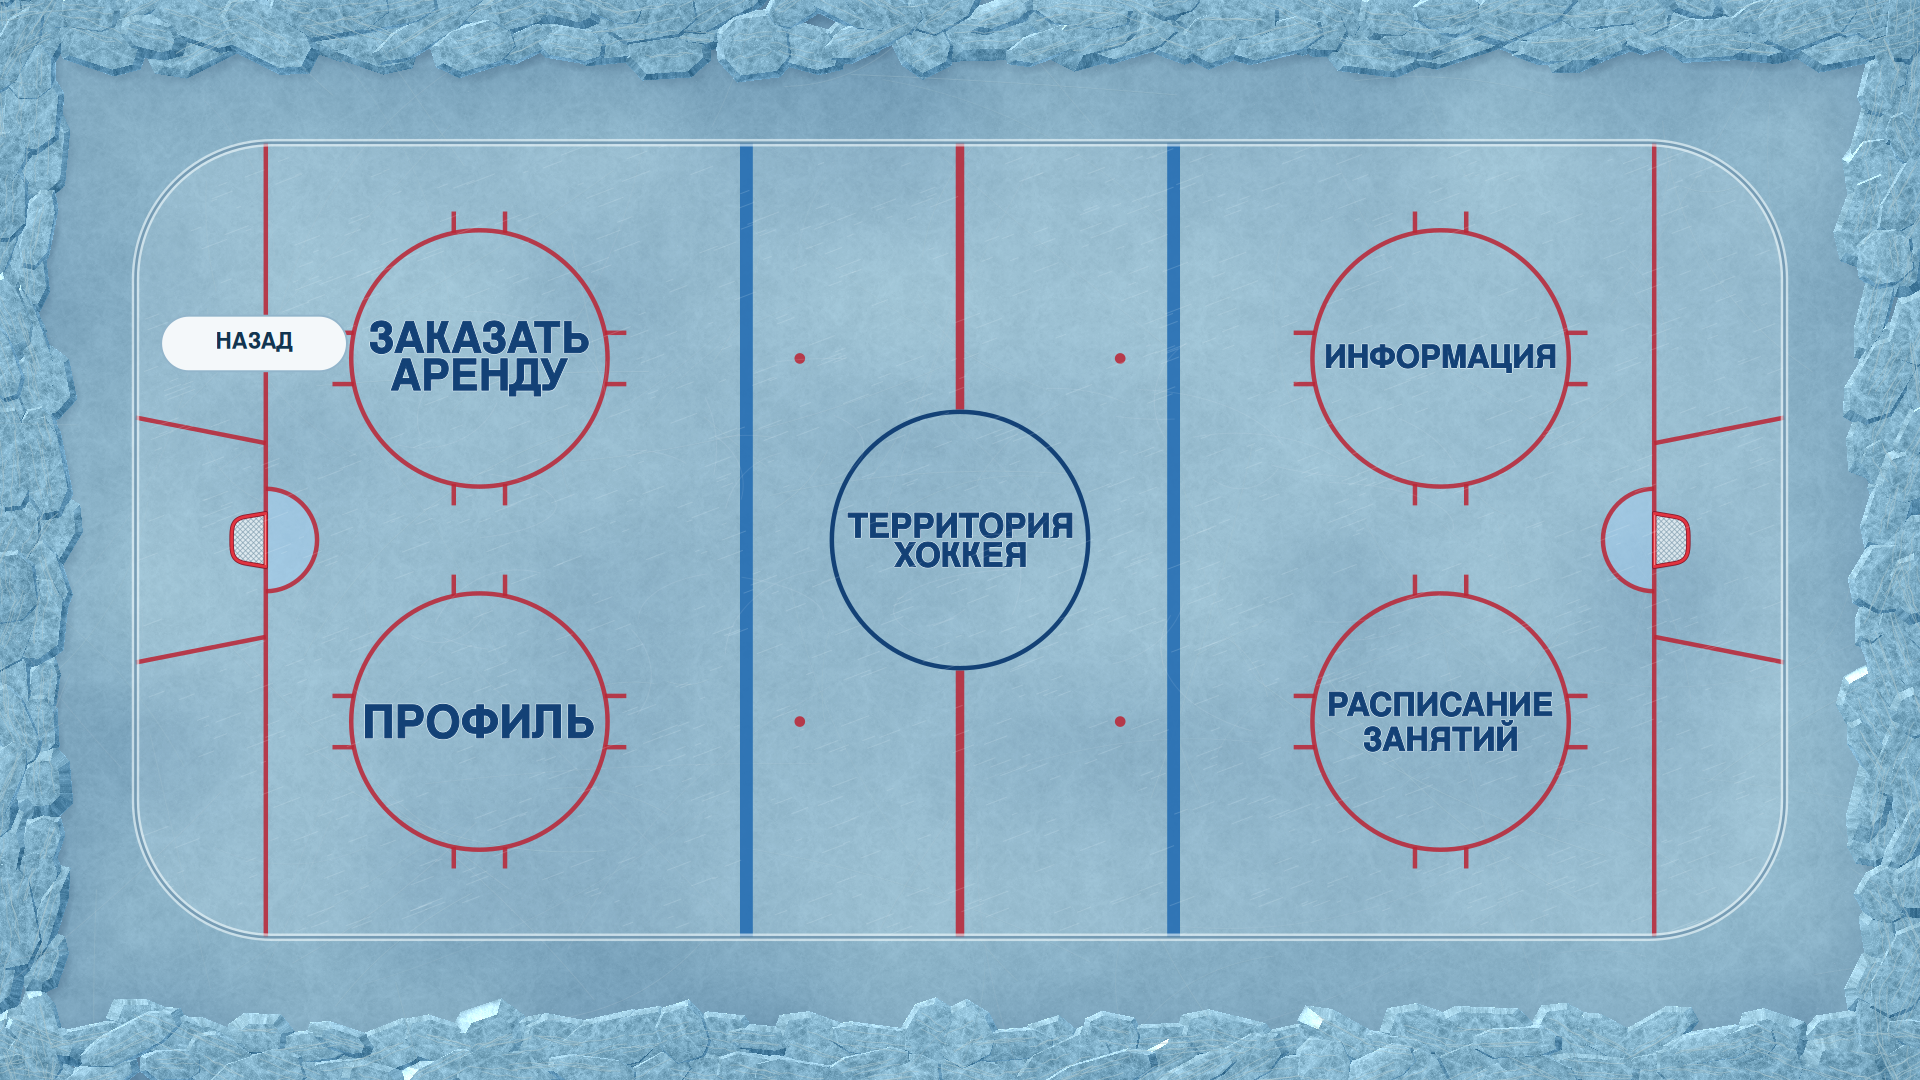
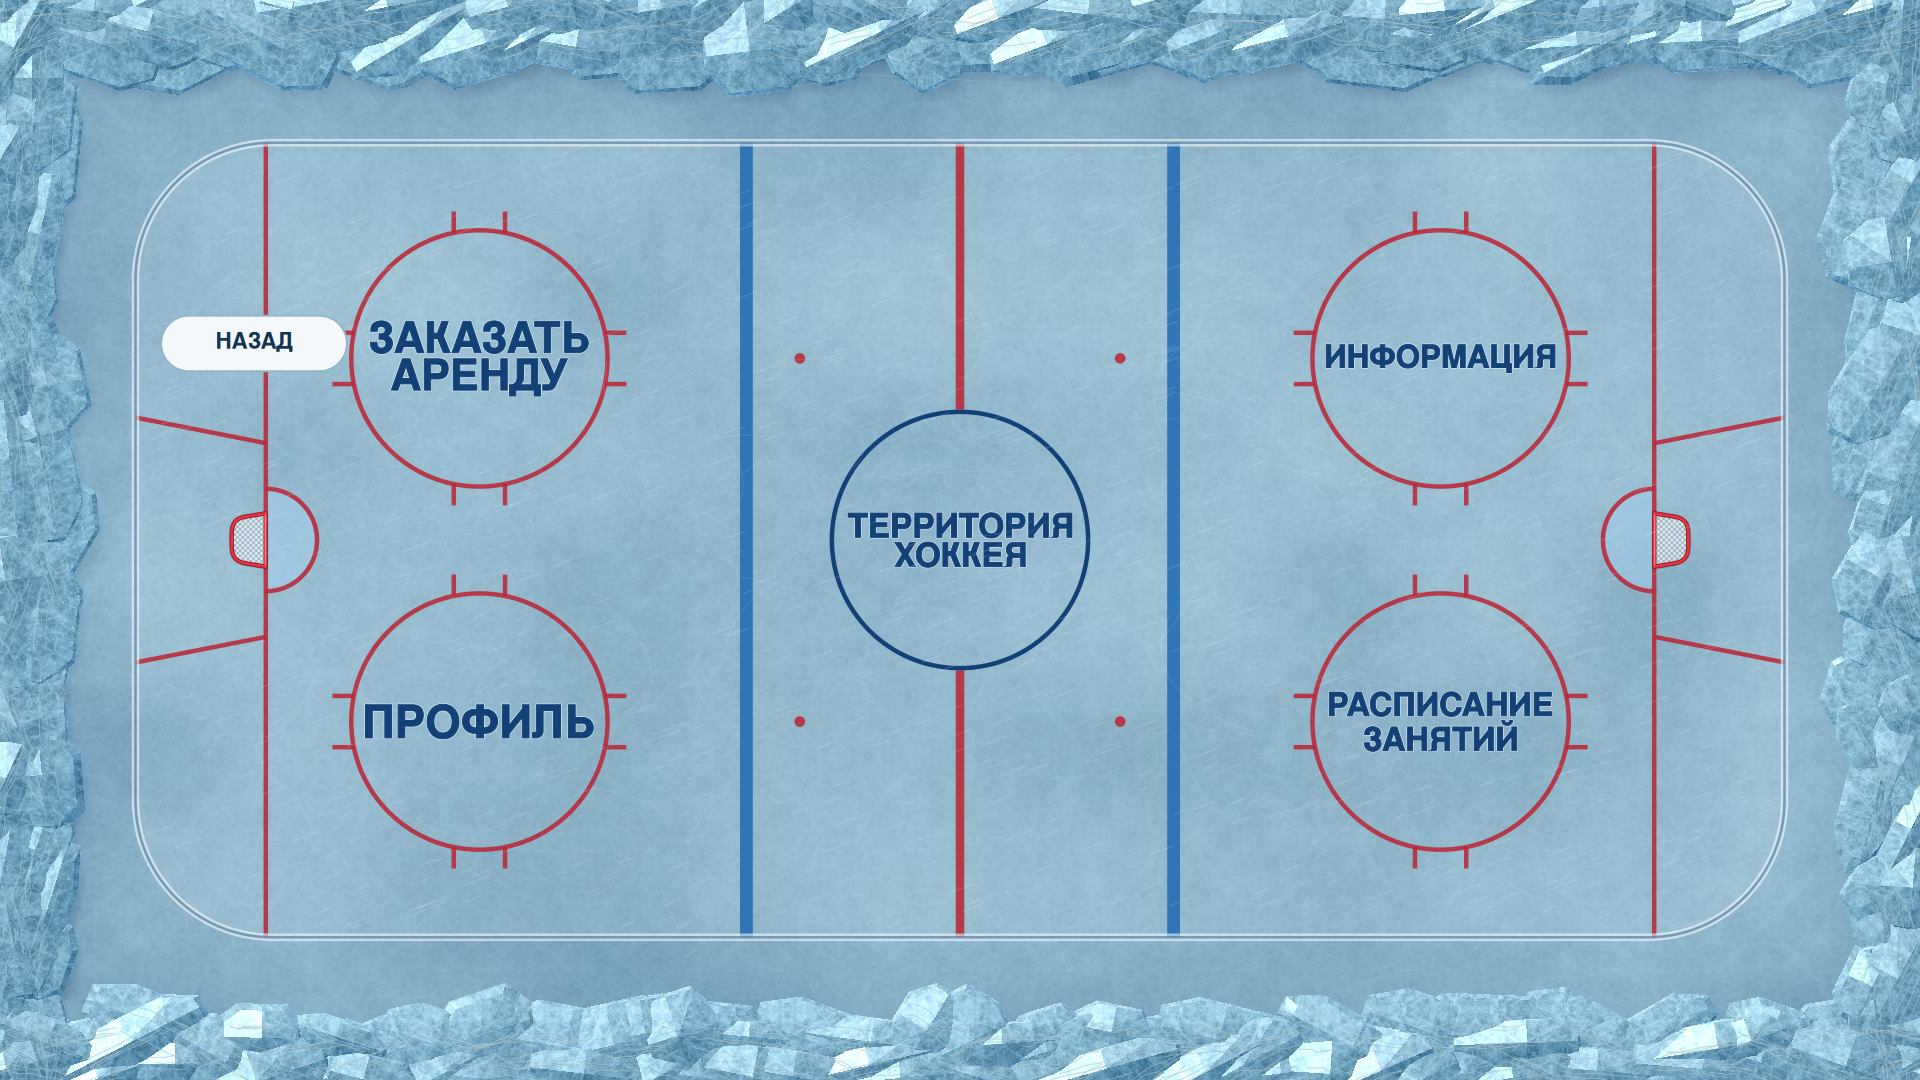
Sharpen perimeter ice and keep enlargement below 1.5x

Changed region(s): [[0.0, 0.0, 1.0, 1.0]]

diff --git a/COURSE_3/EP_TPaD_DB/App_C#/App/NativeIceDrawing.cs b/COURSE_3/EP_TPaD_DB/App_C#/App/NativeIceDrawing.cs
@@ -13,6 +13,11 @@ namespace LP_PopovD_App
         private static IceWorld? world;
         private static Size worldSize;
 
+        // Рост габаритов 40%. Высота острой вершины не превышает 1,35 / 0,92 ≈ 1,468
+        // прежней максимальной высоты глыбы, то есть остаётся в пределах 1,5 раза.
+        internal const float LumpScale = 1.40f;
+        internal const float LumpHeightScale = 1.35f;
+
         private readonly record struct Lump(float X, float Y, float Rx, float Ry,
             float Cos, float Sin, float Height, int Seed);
 
@@ -107,9 +112,9 @@ namespace LP_PopovD_App
                             float angle = (random.NextSingle() - .5f) * 1.1f + (edge < 2 ? 0 : MathF.PI / 2);
                             float x = edge switch { 0 or 1 => a, 2 => inward, _ => Width - inward };
                             float y = edge switch { 0 => inward, 1 => Height - inward, _ => a };
-                            Lumps.Add(new Lump(x, y, 23 + random.NextSingle() * 30,
-                                12 + random.NextSingle() * 17, MathF.Cos(angle), MathF.Sin(angle),
-                                (layer == 0 ? 7 : 4) + random.NextSingle() * 10, random.Next(1, 5000)));
+                            Lumps.Add(new Lump(x, y, (23 + random.NextSingle() * 30) * LumpScale,
+                                (12 + random.NextSingle() * 17) * LumpScale, MathF.Cos(angle), MathF.Sin(angle),
+                                ((layer == 0 ? 7 : 4) + random.NextSingle() * 10) * LumpHeightScale, random.Next(1, 5000)));
                         }
                     }
 
@@ -165,7 +170,7 @@ namespace LP_PopovD_App
             float g = 177 + cloud * 26 + texture - edge * 29;
             float b = 199 + cloud * 20 + texture - edge * 23;
 
-            if (distance < 105)
+            if (distance < 105 * LumpScale)
             {
                 int column = Math.Clamp((int)(x / IceWorld.CellSize), 0, scene.Columns - 1);
                 int row = Math.Clamp((int)(y / IceWorld.CellSize), 0, scene.Rows - 1);
@@ -177,8 +182,8 @@ namespace LP_PopovD_App
                     float u = (dx * lump.Cos + dy * lump.Sin) / lump.Rx;
                     float v = (-dx * lump.Sin + dy * lump.Cos) / lump.Ry;
                     float q = u * u + v * v;
-                    float su = ((dx - 4) * lump.Cos + (dy - 7) * lump.Sin) / (lump.Rx * 1.10f);
-                    float sv = (-(dx - 4) * lump.Sin + (dy - 7) * lump.Cos) / (lump.Ry * 1.10f);
+                    float su = ((dx - 4 * LumpHeightScale) * lump.Cos + (dy - 7 * LumpHeightScale) * lump.Sin) / (lump.Rx * 1.10f);
+                    float sv = (-(dx - 4 * LumpHeightScale) * lump.Sin + (dy - 7 * LumpHeightScale) * lump.Cos) / (lump.Ry * 1.10f);
                     shadow = Math.Max(shadow, Math.Clamp(1 - su * su - sv * sv, 0, 1) * .22f);
                     if (q >= 2.1f) continue;
                     float cut = 1 - Math.Abs(u), cutU = -Math.Sign(u), cutV = 0;
@@ -190,21 +195,30 @@ namespace LP_PopovD_App
                     diagonal = .85f * u - .53f * v;
                     candidate = 1.02f - Math.Abs(diagonal);
                     if (candidate < cut) { cut = candidate; cutU = -.85f * Math.Sign(diagonal); cutV = .53f * Math.Sign(diagonal); }
+                    // Дополнительный срез одного угла даёт разные естественные сколы.
+                    // Он только уменьшает исходный контур, не расширяя его сверх LumpScale.
+                    float chipU = (.68f + (lump.Seed & 7) / 7f * .20f) * ((lump.Seed & 64) == 0 ? 1 : -1);
+                    float chipV = (.40f + ((lump.Seed >> 3) & 7) / 7f * .12f) * ((lump.Seed & 128) == 0 ? 1 : -1);
+                    candidate = .94f + lump.Seed % 5 * .01f - chipU * u - chipV * v;
+                    if (candidate < cut) { cut = candidate; cutU = -chipU; cutV = -chipV; }
                     if (cut <= 0) continue;
                     overlap++;
-                    float bevelWidth = lump.Seed % 4 == 0 ? .42f : .19f;
+                    float bevelWidth = lump.Seed % 4 == 0 ? .20f : .085f;
                     float bevel = Math.Clamp(cut / bevelWidth, 0, 1), root = MathF.Sqrt(bevel);
                     float profile = root * .45f + bevel * .55f;
-                    float tiltU = ((lump.Seed & 15) / 15f - .5f) * .24f;
-                    float tiltV = (((lump.Seed >> 4) & 15) / 15f - .5f) * .24f;
-                    float crown = MathF.Sqrt(Math.Max(.08f, 1 - .45f * u * u - .45f * v * v));
-                    float roof = .67f + crown * .25f + tiltU * u + tiltV * v;
+                    // Смещённая вершина и сходящиеся плоскости вместо округлой макушки.
+                    float pu = u - ((lump.Seed & 15) / 15f - .5f) * .32f;
+                    float pv = v - (((lump.Seed >> 4) & 15) / 15f - .5f) * .28f;
+                    float ridge = .75f * pu + .66f * pv;
+                    float roof = Math.Clamp(1 - .32f * Math.Abs(pu) - .36f * Math.Abs(pv) - .12f * Math.Abs(ridge), .20f, 1);
+                    float roofU = roof <= .20f ? 0 : -.32f * Math.Sign(pu) - .09f * Math.Sign(ridge);
+                    float roofV = roof <= .20f ? 0 : -.36f * Math.Sign(pv) - .0792f * Math.Sign(ridge);
                     float z = lump.Height * profile * roof;
                     if (z <= height) continue;
                     height = z;
                     float slope = bevel < 1 ? (.225f / Math.Max(.035f, root) + .55f) / bevelWidth : 0;
-                    float du = lump.Height * (slope * cutU * roof + profile * (tiltU - .1125f * u / crown));
-                    float dv = lump.Height * (slope * cutV * roof + profile * (tiltV - .1125f * v / crown));
+                    float du = lump.Height * (slope * cutU * roof + profile * roofU);
+                    float dv = lump.Height * (slope * cutV * roof + profile * roofV);
                     nx = -(du * lump.Cos / lump.Rx - dv * lump.Sin / lump.Ry);
                     ny = -(du * lump.Sin / lump.Rx + dv * lump.Cos / lump.Ry);
                     float inverse = 1 / MathF.Sqrt(nx * nx + ny * ny + 1);
@@ -215,12 +229,13 @@ namespace LP_PopovD_App
                 {
                     float diffuse = Math.Max(0, -.44f * nx - .60f * ny + .67f * nz);
                     float half = Math.Max(0, -.24f * nx - .32f * ny + .916f * nz);
-                    float specular = MathF.Pow(half, 52) * 105;
+                    float specular = MathF.Pow(half, 36 + selectedSeed % 33) * 105;
                     float grazing = 1 - nz;
                     float reflection = grazing * grazing * (36 + grazing * 48);
                     float vein = Math.Abs(Noise(localU * 6 + selectedSeed, localV * 5) - .5f);
                     float milky = Math.Max(0, 1 - vein * 48) * (9 + frost * 10);
                     float hoar = Math.Max(0, Noise(x * 1.8f + selectedSeed, y * 1.8f) - .62f) * 52;
+                    specular *= 1 - Math.Clamp(hoar / 45, 0, .45f);
                     float inclusions = scene.Material.Sample(x + nx * height * 1.5f + selectedSeed,
                         y + ny * height * 1.5f) * 25;
                     float occlusion = Math.Min(15, Math.Max(0, overlap - 1) * 2.4f);

diff --git a/COURSE_3/EP_TPaD_DB/App_C#/README.md b/COURSE_3/EP_TPaD_DB/App_C#/README.md
@@ -72,8 +72,11 @@
 
 `NativeIceDrawing.cs` создаёт лёд сразу в разрешении окна или экспорта:
 многослойная фактура замёрзшей воды, следы коньков и снежная крошка.
-По краям лежат объёмные сколотые глыбы с разной высотой, мягкой выпуклостью,
-наклонными гранями, бликами, контактными тенями, внутренними трещинами и инеем.
+По краям лежат объёмные сколотые глыбы со смещёнными острыми вершинами,
+узкими кромками, разными сколами, бликами, контактными тенями, внутренними трещинами и инеем.
+Габариты каждой глыбы увеличены в **1,40 раза** относительно предыдущего варианта.
+Верхняя граница роста высоты острой вершины — **1,468 раза**; ограничение 1,5 не превышается.
+Иней приглушает блики, а шероховатость граней различается у разных глыб.
 Вместо прежних плоских многоугольников используется поле высот с нормалями и направленным освещением.
 
 В 30720 × 17280 фон вычисляется в координатах 30720 × 17280.
@@ -81,6 +84,8 @@
 созданный встроенным imagegen; [полный запрос](App/Assets/IceSurface.prompt.txt).
 Материал накладывается повторно в нескольких масштабах, а не растягивается на весь экран.
 MIP-уровень подавляет муар при уменьшении; нормали и мелкий рельеф рассчитываются отдельно.
+В [Ice_Detail_32K.png](Ice_Detail_32K.png) показан фрагмент 1600 × 1200 из отрисовки
+кадра 30720 × 17280 в масштабе 1:1, чтобы рассмотреть острые грани и фактуру.
 Кэш переносится на экран 1:1 без повторной фильтрации.
 Майка, поля, надписи и разметка также строятся в целевом разрешении.
 Собственная детализация растровых эмблем, резины и исходного материала льда
@@ -169,6 +174,7 @@ JPEG поддерживается до 15360 пикселей по ширине;
 - Проверены четыре PNG в **30720 × 17280**: размеры, CRC блоков и целостность потока zlib.
 - Проверена точная передача RGB-пикселей, ширина с неполным выравниванием строки и перенос предиктора между полосами.
 - Проверены стыки полос, наличие трёх шайб и сохранность предыдущего файла при незавершённом экспорте.
+- Для всех 274 глыб сравнены прежние и новые габариты: рост радиусов 1,40, верхняя граница роста вершины 1,468.
 - Проверены порядок эмблем, загрузка ресурсов и нормализация DPI.
 - Проверены общий масштаб надписей и попадание букв внутрь окружностей.
 - Проверены обязательность полей и формат электронной почты.
